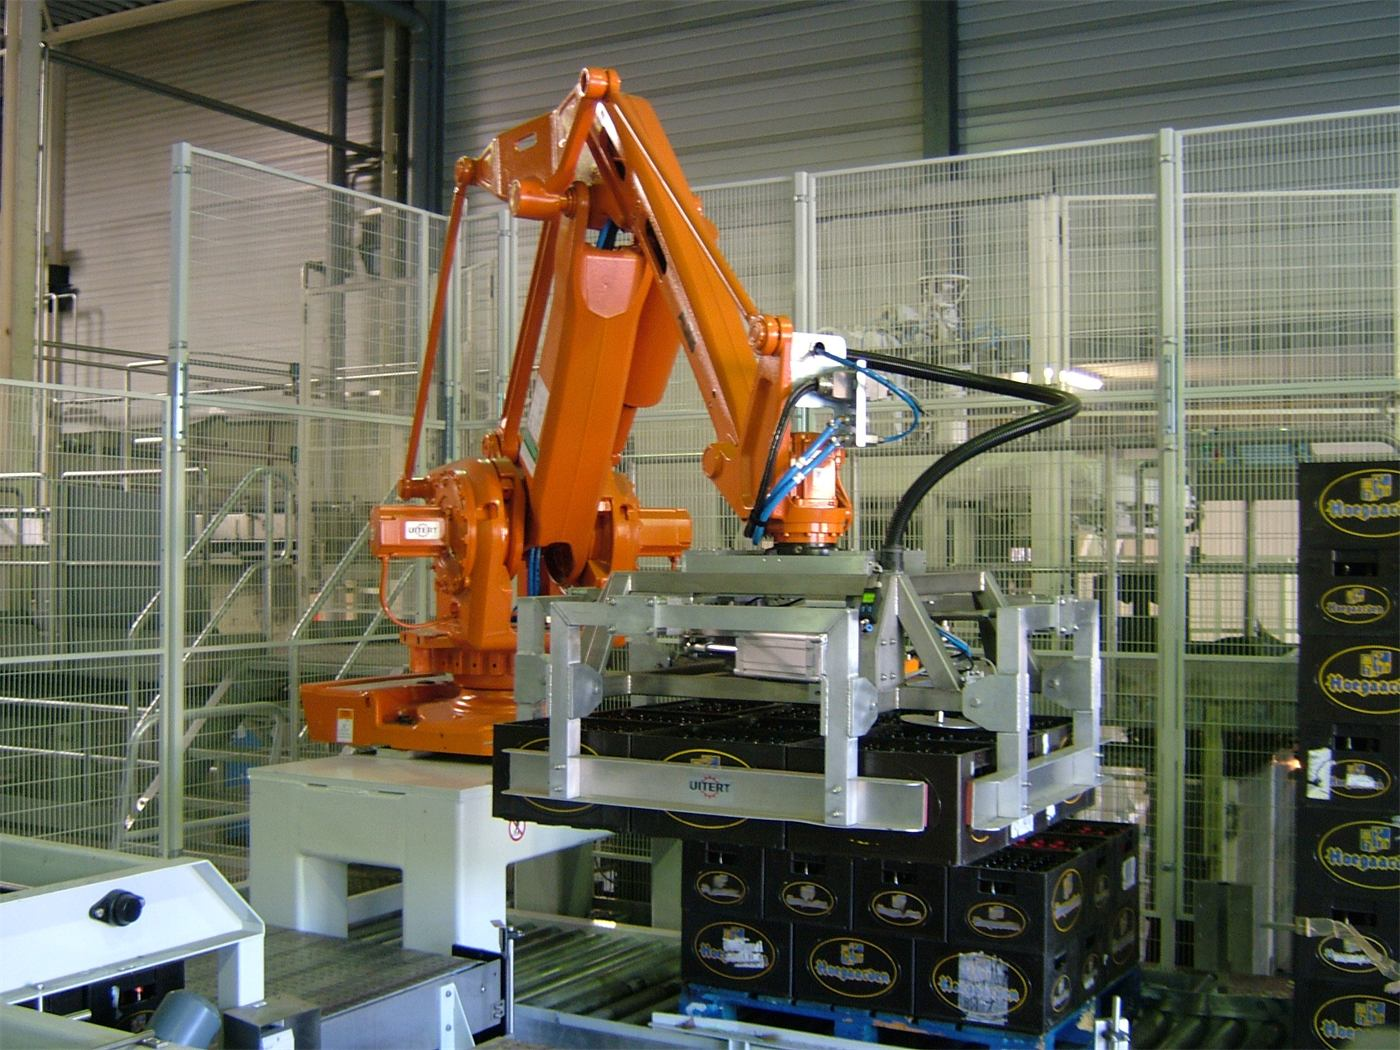
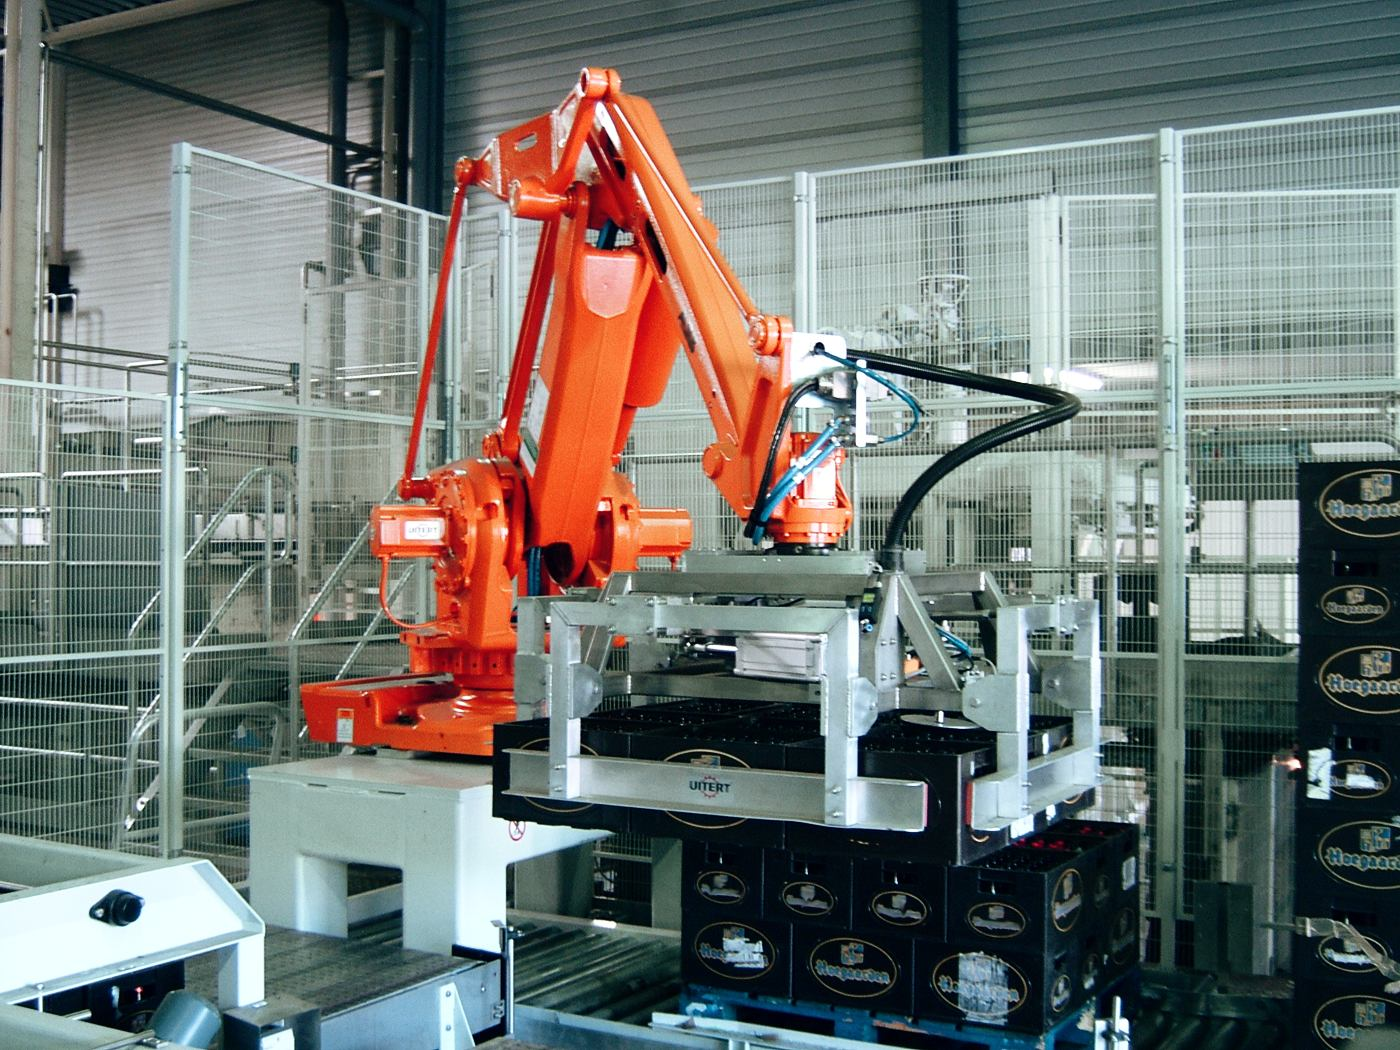
Foto's met het Van Uitert-filter: vijf machinefoto's en crossdock Heineken
Filter geleerd uit 79 paren origineel/bewerkt in de beeldbank (preset UitertBV); tools/foto.ps1 -Filter zet het op nieuwe foto's.

diff --git a/tools/filter/Lut.cs b/tools/filter/Lut.cs
@@ -1,0 +1,44 @@
+using System; using System.Drawing; using System.Drawing.Drawing2D; using System.Drawing.Imaging; using System.Runtime.InteropServices;
+public static class Lut {
+  public const int N = 17;
+  public static double[] sum = new double[N*N*N*3]; public static double[] wgt = new double[N*N*N];
+  public static float[] off = new float[N*N*N*3];
+  public static void Reset() { Array.Clear(sum,0,sum.Length); Array.Clear(wgt,0,wgt.Length); }
+  public static Bitmap Schaal(Image src, int w, int h) { var b = new Bitmap(w, h, PixelFormat.Format24bppRgb); using (var g = Graphics.FromImage(b)) { g.InterpolationMode = InterpolationMode.HighQualityBicubic; g.PixelOffsetMode = PixelOffsetMode.HighQuality; g.Clear(Color.White); using (var ia = new ImageAttributes()) { ia.SetWrapMode(WrapMode.TileFlipXY); g.DrawImage(src, new Rectangle(0,0,w,h), 0, 0, src.Width, src.Height, GraphicsUnit.Pixel, ia); } } return b; }
+  static byte[] Lees(Bitmap b, out int stride) { var d = b.LockBits(new Rectangle(0,0,b.Width,b.Height), ImageLockMode.ReadOnly, PixelFormat.Format24bppRgb); stride = d.Stride; var buf = new byte[stride*b.Height]; Marshal.Copy(d.Scan0, buf, 0, buf.Length); b.UnlockBits(d); return buf; }
+  public static double Corr(Bitmap a, Bitmap e) { int s1, s2; var A = Lees(a, out s1); var E = Lees(e, out s2); double sa=0,se=0,saa=0,see=0,sae=0; int n=0;
+    for (int y=0;y<a.Height;y++) for (int x=0;x<a.Width;x++) { int i=y*s1+x*3, j=y*s2+x*3; double la=0.11*A[i]+0.59*A[i+1]+0.3*A[i+2], le=0.11*E[j]+0.59*E[j+1]+0.3*E[j+2]; sa+=la; se+=le; saa+=la*la; see+=le*le; sae+=la*le; n++; }
+    double cov=sae/n-(sa/n)*(se/n), va=saa/n-(sa/n)*(sa/n), ve=see/n-(se/n)*(se/n); return cov/Math.Sqrt(va*ve+1e-9); }
+  public static void Train(Bitmap a, Bitmap e) { int s1, s2; var A = Lees(a, out s1); var E = Lees(e, out s2);
+    for (int y=0;y<a.Height;y++) for (int x=0;x<a.Width;x++) { int i=y*s1+x*3, j=y*s2+x*3;
+      double fb=A[i]/255.0*(N-1), fg=A[i+1]/255.0*(N-1), fr=A[i+2]/255.0*(N-1);
+      int b0=Math.Min((int)fb,N-2), g0=Math.Min((int)fg,N-2), r0=Math.Min((int)fr,N-2); double db=fb-b0, dg=fg-g0, dr=fr-r0;
+      for (int k=0;k<8;k++) { int kb=k&1, kg=(k>>1)&1, kr=(k>>2)&1; double w=(kb==1?db:1-db)*(kg==1?dg:1-dg)*(kr==1?dr:1-dr); if (w<=0) continue; int node=((r0+kr)*N+(g0+kg))*N+(b0+kb);
+        sum[node*3]+=w*(E[j]-A[i]); sum[node*3+1]+=w*(E[j+1]-A[i+1]); sum[node*3+2]+=w*(E[j+2]-A[i+2]); wgt[node]+=w; } } }
+  public static int Bouw(double min) { int T=N*N*N; var ok=new bool[T]; int gevuld=0;
+    for (int n=0;n<T;n++) if (wgt[n]>=min) { ok[n]=true; gevuld++; for (int c=0;c<3;c++) off[n*3+c]=(float)(sum[n*3+c]/wgt[n]); }
+    int rest=T-gevuld; int[] d={1,-1,N,-N,N*N,-N*N};
+    while (rest>0) { var nieuw=new System.Collections.Generic.List<int>(); var val=new System.Collections.Generic.List<float[]>();
+      for (int r=0;r<N;r++) for (int g=0;g<N;g++) for (int b=0;b<N;b++) { int n=(r*N+g)*N+b; if (ok[n]) continue; float[] s=new float[3]; int cnt=0;
+        if (b>0&&ok[n-1]){cnt++;for(int c=0;c<3;c++)s[c]+=off[(n-1)*3+c];} if (b<N-1&&ok[n+1]){cnt++;for(int c=0;c<3;c++)s[c]+=off[(n+1)*3+c];}
+        if (g>0&&ok[n-N]){cnt++;for(int c=0;c<3;c++)s[c]+=off[(n-N)*3+c];} if (g<N-1&&ok[n+N]){cnt++;for(int c=0;c<3;c++)s[c]+=off[(n+N)*3+c];}
+        if (r>0&&ok[n-N*N]){cnt++;for(int c=0;c<3;c++)s[c]+=off[(n-N*N)*3+c];} if (r<N-1&&ok[n+N*N]){cnt++;for(int c=0;c<3;c++)s[c]+=off[(n+N*N)*3+c];}
+        if (cnt>0) { for(int c=0;c<3;c++) s[c]/=cnt; nieuw.Add(n); val.Add(s); } }
+      if (nieuw.Count==0) break; for (int i=0;i<nieuw.Count;i++) { ok[nieuw[i]]=true; for(int c=0;c<3;c++) off[nieuw[i]*3+c]=val[i][c]; } rest-=nieuw.Count; }
+    // lichte gladstrijking
+    var cp=(float[])off.Clone();
+    for (int r=0;r<N;r++) for (int g=0;g<N;g++) for (int b=0;b<N;b++) { int n=(r*N+g)*N+b; for (int c=0;c<3;c++) { float s=0; int cnt=0;
+        if (b>0){s+=cp[(n-1)*3+c];cnt++;} if (b<N-1){s+=cp[(n+1)*3+c];cnt++;} if (g>0){s+=cp[(n-N)*3+c];cnt++;} if (g<N-1){s+=cp[(n+N)*3+c];cnt++;} if (r>0){s+=cp[(n-N*N)*3+c];cnt++;} if (r<N-1){s+=cp[(n+N*N)*3+c];cnt++;}
+        off[n*3+c]=0.6f*cp[n*3+c]+0.4f*s/cnt; } }
+    return gevuld; }
+  public static void Pas(Bitmap bmp) { var d = bmp.LockBits(new Rectangle(0,0,bmp.Width,bmp.Height), ImageLockMode.ReadWrite, PixelFormat.Format24bppRgb); int st=d.Stride; var buf=new byte[st*bmp.Height]; Marshal.Copy(d.Scan0, buf, 0, buf.Length);
+    for (int y=0;y<bmp.Height;y++) for (int x=0;x<bmp.Width;x++) { int i=y*st+x*3;
+      double fb=buf[i]/255.0*(N-1), fg=buf[i+1]/255.0*(N-1), fr=buf[i+2]/255.0*(N-1);
+      int b0=Math.Min((int)fb,N-2), g0=Math.Min((int)fg,N-2), r0=Math.Min((int)fr,N-2); double db=fb-b0, dg=fg-g0, dr=fr-r0; double o0=0,o1=0,o2=0;
+      for (int k=0;k<8;k++) { int kb=k&1, kg=(k>>1)&1, kr=(k>>2)&1; double w=(kb==1?db:1-db)*(kg==1?dg:1-dg)*(kr==1?dr:1-dr); int node=((r0+kr)*N+(g0+kg))*N+(b0+kb); o0+=w*off[node*3]; o1+=w*off[node*3+1]; o2+=w*off[node*3+2]; }
+      buf[i]=(byte)Math.Max(0,Math.Min(255,Math.Round(buf[i]+o0))); buf[i+1]=(byte)Math.Max(0,Math.Min(255,Math.Round(buf[i+1]+o1))); buf[i+2]=(byte)Math.Max(0,Math.Min(255,Math.Round(buf[i+2]+o2))); }
+    Marshal.Copy(buf, 0, d.Scan0, buf.Length); bmp.UnlockBits(d); }
+  public static double Fout(Bitmap a, Bitmap e) { int s1, s2; var A = Lees(a, out s1); var E = Lees(e, out s2); double s=0; long n=0; for (int y=0;y<a.Height;y++) for (int x=0;x<a.Width*3;x++) { s+=Math.Abs(A[y*s1+x]-E[y*s2+x]); n++; } return s/n; }
+  public static void Bewaar(string pad) { var b=new byte[off.Length*4]; Buffer.BlockCopy(off,0,b,0,b.Length); System.IO.File.WriteAllBytes(pad,b); }
+  public static void Laad(string pad) { var b=System.IO.File.ReadAllBytes(pad); Buffer.BlockCopy(b,0,off,0,b.Length); }
+}

diff --git a/README.md b/README.md
@@ -37,7 +37,7 @@ Statische site: HTML, CSS en een klein script. Geen database, geen WordPress, ge
 | Passend project onder een pagina | regel `<!--rel-heineken-->`, `<!--rel-abbott-->` of `<!--rel-abinbev-->` in de pagina |
 | Vacatures | `src/partials/jobs-nl.html` en de keuzelijst in `src/pages/werken-bij.html` |
 | Voorkeuze in het contactformulier | link naar `contact.html?about=Line%20audit` (tekst moet gelijk zijn aan een keuze) |
-| Foto toevoegen of vervangen | `tools/foto.ps1 -Bron "<origineel>" -Naam <naam>` maakt een groot (1400 px) en een klein (800 px) formaat; de site kiest zelf per scherm. Altijd het origineel uit de beeldbank nemen, niet de 416 px-versie van de oude site |
+| Foto toevoegen of vervangen | `tools/foto.ps1 -Bron "<origineel>" -Naam <naam> -Filter` zet het Van Uitert-fotofilter erop en maakt een groot (1400 px) en een klein (800 px) formaat; de site kiest zelf per scherm. Altijd het origineel uit de beeldbank nemen, niet de 416 px-versie van de oude site. `-Filter` weglaten bij een foto die al bewerkt is (map Bewerkt) |
 | Klantlogo erbij | svg in `assets/img/logo-<naam>.svg` en een regel met de hoogte bij "Logo's" onderaan `assets/css/site.css` |
 | Opmaak | `assets/css/site.css` |
 | Gedrag (rode draad, stations, formulier) | `assets/js/site.js` |
